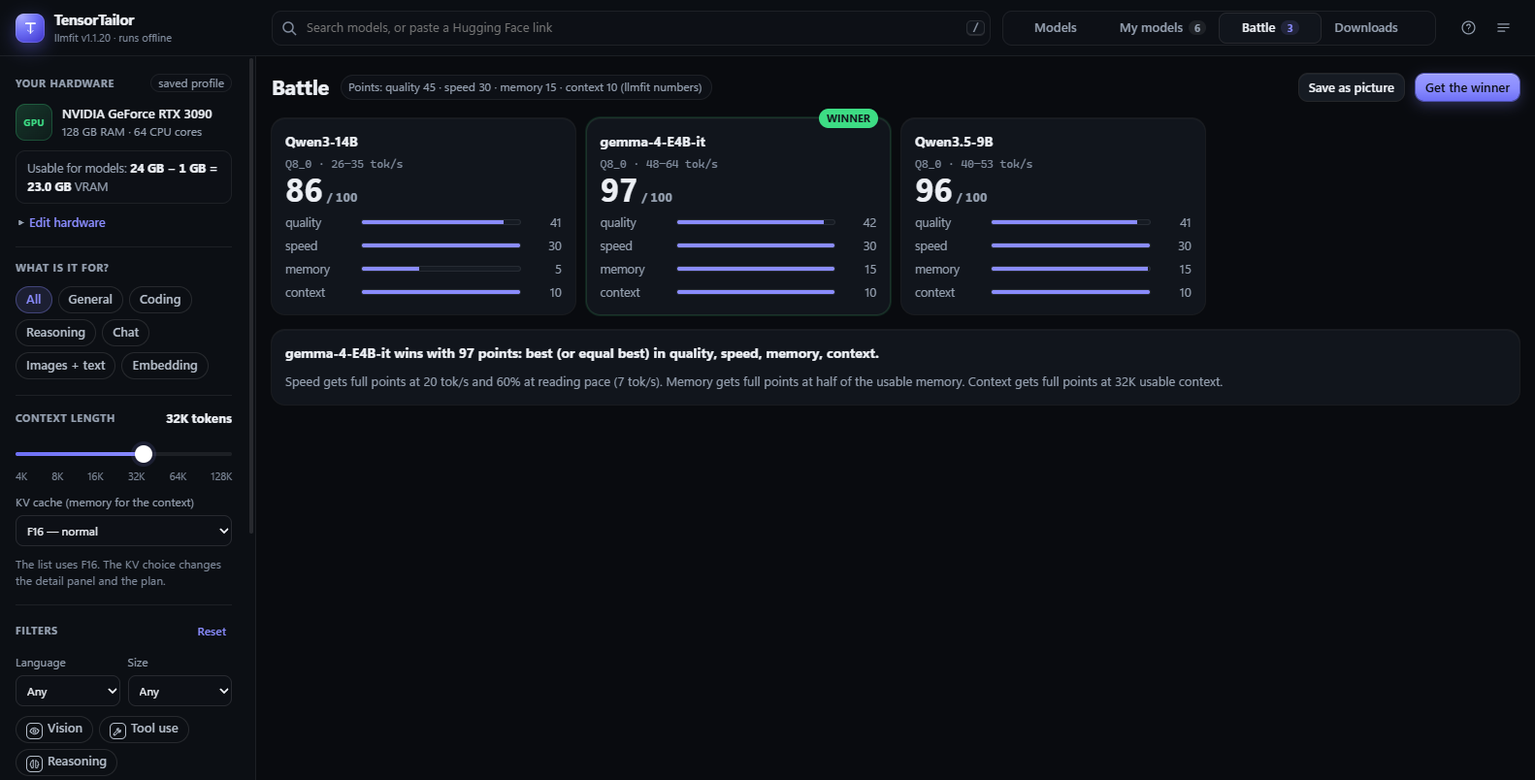
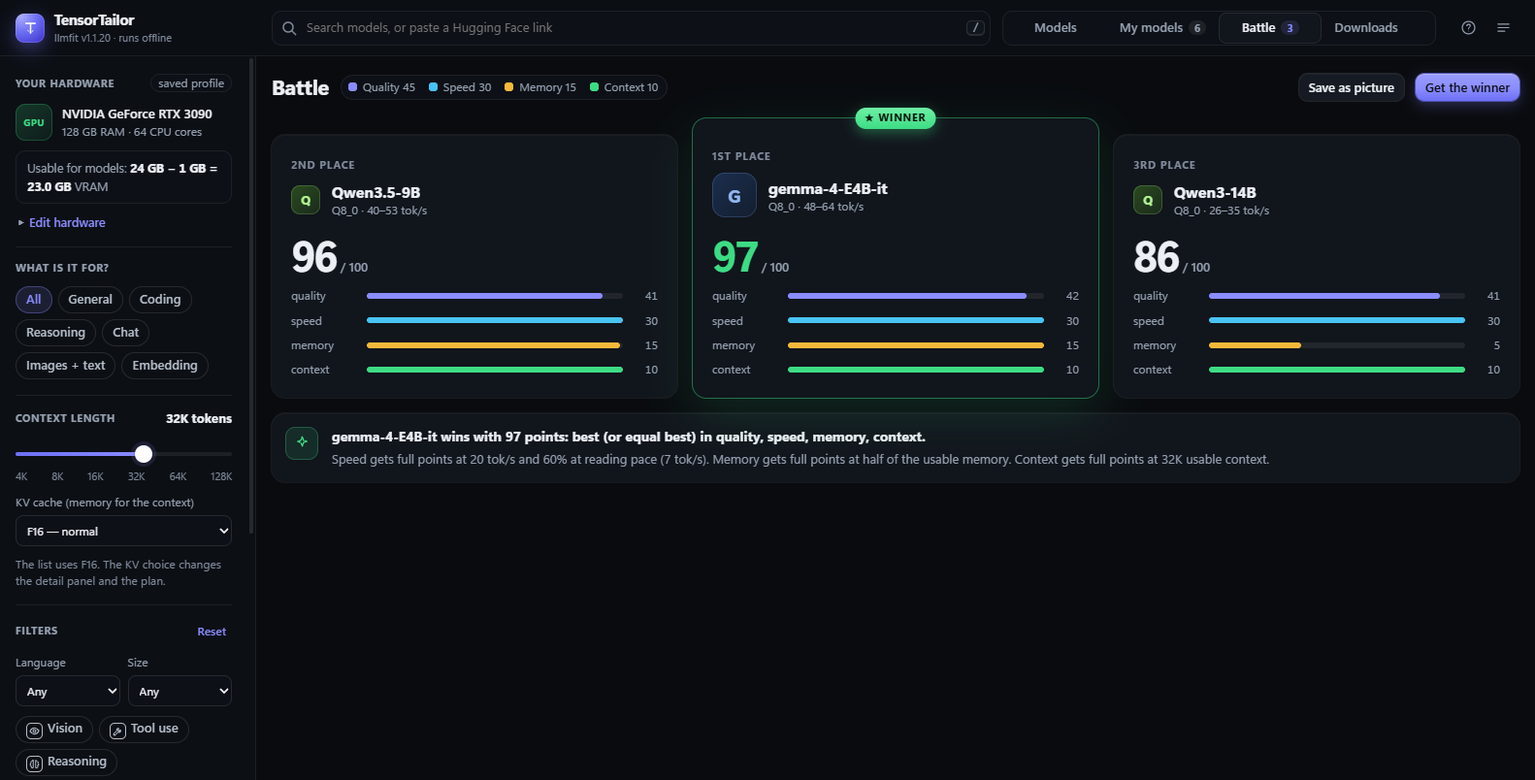
Implemented by Claude Opus 5.5: style: design v4 Battle, Downloads, empty and loading states, Tools menu, Help
Step D6: friendly empty states with actions, a Battle podium with ranks and one colour per category, download rows with status icons and a running shine, skeleton rows while the engine starts, the Tools menu in groups with icons, and the Help with a table of contents and a search box. Help and hover texts now describe the grey memory bar.

diff --git a/web/app.html b/web/app.html
@@ -780,6 +780,76 @@ input[type="range"]:focus-visible::-webkit-slider-thumb { box-shadow: 0 0 0 4px 
 .kpi b.num { text-align: left; }
 /* Cards in the views keep their full height (the view itself scrolls). */
 .view-pane > * { flex: none; }
+
+/* ==== Design v4, step D6: Battle, Downloads, empty and loading states, Tools menu, Help ==== */
+/* Empty states: an icon tile, a title, a sentence and actions. */
+.empty-state { text-align: center; padding: 44px 24px; color: var(--muted); }
+.es-art { width: 76px; height: 76px; margin: 0 auto 16px; border-radius: 22px; display: grid; place-items: center; color: var(--accent); background: radial-gradient(circle at 30% 20%, color-mix(in srgb, var(--accent) 22%, transparent), transparent 70%), var(--panel); box-shadow: var(--elev), 0 18px 44px color-mix(in srgb, var(--accent) 14%, transparent); }
+.es-art svg { width: 30px; height: 30px; fill: none; stroke: currentColor; stroke-width: 1.5; stroke-linecap: round; stroke-linejoin: round; }
+.empty-state h2 { font: 650 20px var(--display); letter-spacing: -.02em; color: var(--text); margin: 0; }
+.empty-state p { margin: 8px auto 18px; max-width: 460px; font-size: 13.5px; }
+.empty-state p b { color: var(--text); }
+.es-acts { display: flex; gap: 8px; justify-content: center; flex-wrap: wrap; }
+.rows > .empty-state { padding-top: 60px; }
+/* Loading: shimmering skeleton rows until the first list is ready. */
+.sk { display: block; border-radius: 6px; background: linear-gradient(90deg, var(--line) 0%, var(--line-2) 50%, var(--line) 100%); background-size: 200% 100%; animation: sk 1.4s ease-in-out infinite; }
+@keyframes sk { from { background-position: 100% 0; } to { background-position: -100% 0; } }
+.sk-row { display: grid; grid-template-columns: 30px minmax(150px, 2.3fr) 70px minmax(112px, 1.2fr) 92px 118px 54px; gap: 12px; align-items: center; height: 60px; padding: 0 16px 0 46px; border-top: 1px solid var(--line); }
+/* Battle: ranks, avatars, one colour per category, the winner raised with a green glow. */
+.fighters { gap: 16px; align-items: end; }
+.fighter { padding: 20px; }
+.fighter.win { box-shadow: 0 0 0 1px color-mix(in srgb, var(--perfect) 45%, transparent), 0 18px 50px color-mix(in srgb, var(--perfect) 14%, transparent); padding-top: 28px; }
+.crown { top: -11px; left: 50%; right: auto; transform: translateX(-50%); height: 22px; padding: 0 10px; display: inline-flex; align-items: center; font-size: 10.5px; font-weight: 800; letter-spacing: .1em; color: #04130a; background: linear-gradient(180deg, #6ef0a6, var(--perfect)); box-shadow: 0 4px 14px color-mix(in srgb, var(--perfect) 40%, transparent); }
+.place { font: 700 10.5px var(--font); letter-spacing: .1em; text-transform: uppercase; color: var(--faint); }
+.fhead { display: flex; align-items: center; gap: 12px; margin-top: 8px; }
+.fname-b { min-width: 0; }
+.fhead h3 { margin: 0; font: 650 16px var(--display); white-space: nowrap; overflow: hidden; text-overflow: ellipsis; }
+.fighter .hash { font-family: var(--font); font-size: 12px; color: var(--muted); }
+.pts { font: 700 44px/1 var(--display); letter-spacing: -.04em; margin: 16px 0 12px; }
+.pts small { font: 600 13px var(--font); color: var(--muted); letter-spacing: 0; }
+.fighter.win .pts { color: var(--perfect); }
+.round { grid-template-columns: 70px 1fr 28px; font-size: 12px; margin-top: 8px; }
+.round .bar { height: 6px; border: 0; background: var(--line); border-radius: 6px; }
+.round .bar > span { border-radius: 6px; }
+.klegend { display: inline-flex; gap: 14px; }
+.klegend span { display: inline-flex; align-items: center; gap: 6px; font-size: 12px; }
+.klegend span::before { content: ""; width: 9px; height: 9px; border-radius: 3px; background: var(--c); }
+.battle-why { display: flex; gap: 14px; align-items: flex-start; }
+.bw-ic { width: 34px; height: 34px; flex: none; border-radius: 10px; display: grid; place-items: center; color: var(--perfect); background: color-mix(in srgb, var(--perfect) 12%, transparent); box-shadow: inset 0 0 0 1px color-mix(in srgb, var(--perfect) 28%, transparent); }
+.bw-ic svg { width: 17px; height: 17px; fill: none; stroke: currentColor; stroke-width: 1.7; stroke-linejoin: round; }
+.battle-why .hint { margin-top: 4px; }
+/* Downloads: a file icon tile per row, a thin progress bar with a shine while it runs. */
+.dl-f { display: flex; align-items: center; gap: 12px; min-width: 0; }
+.dl-ic { --c: var(--accent); width: 38px; height: 38px; flex: none; border-radius: 11px; display: grid; place-items: center; color: var(--c); background: color-mix(in srgb, var(--c) 12%, transparent); box-shadow: inset 0 0 0 1px color-mix(in srgb, var(--c) 26%, transparent); }
+.dl-ic svg { width: 17px; height: 17px; fill: none; stroke: currentColor; stroke-width: 1.8; stroke-linecap: round; stroke-linejoin: round; }
+.dl-ic.s-done { --c: var(--perfect); } .dl-ic.s-failed, .dl-ic.s-mismatch { --c: var(--tight); } .dl-ic.s-queued, .dl-ic.s-paused { --c: var(--faint); }
+.dlbar { height: 6px; border: 0; background: var(--line); border-radius: 6px; }
+.dlbar span { background: linear-gradient(90deg, var(--accent-2), var(--accent)); border-radius: 6px; position: relative; overflow: hidden; }
+.dlbar.run span::after { content: ""; position: absolute; inset: 0; background: linear-gradient(90deg, transparent, rgba(255, 255, 255, .35), transparent); animation: shine 1.6s linear infinite; }
+@keyframes shine { from { transform: translateX(-100%); } to { transform: translateX(100%); } }
+.dlstate { font-size: 12.5px; margin-top: 6px; }
+.layout.full .view-pane .ftable td { padding: 12px 8px; }
+/* Tools menu: groups, icons and key hints. */
+.menu { min-width: 300px; padding: 6px; }
+.menu .btn { height: 38px; font-weight: 500; color: var(--text-2); gap: 10px; }
+.menu .btn:hover { color: var(--text); }
+.menu .btn svg.ic { width: 16px; height: 16px; color: var(--faint); }
+.menu-lbl { padding: 8px 10px 4px; font: 700 10.5px var(--font); letter-spacing: .08em; text-transform: uppercase; color: var(--faint); }
+.menu-sep { height: 1px; background: var(--line); margin: 6px 4px; }
+.mi-r { margin-left: auto; font-size: 11px; color: var(--faint); font-weight: 400; }
+/* Help: a table of contents with a search box at the left. */
+#dlgHelp { width: min(1000px, 94vw); }
+#dlgHelp[open] { display: grid; grid-template-columns: 236px minmax(0, 1fr); grid-template-rows: auto minmax(0, 1fr); height: min(740px, 88vh); }
+#dlgHelp .dlg-head { grid-column: 1 / -1; }
+.help-nav { grid-row: 2; overflow: auto; display: flex; flex-direction: column; gap: 2px; padding: 14px 10px; background: var(--side); border-right: 1px solid var(--line); }
+.help-nav .help-q { flex: none; margin: 0 2px 10px; height: 34px; min-width: 0; }
+.pts.num, .kpi b.num { text-align: left; }
+.help-nav a { display: block; padding: 7px 10px; border-radius: 8px; font-size: 13px; color: var(--text-2); text-decoration: none; }
+.help-nav a:hover { background: var(--hover); }
+.help-nav a.on { background: var(--accent-soft); color: var(--accent); font-weight: 600; }
+#dlgHelp .dlg-body { grid-row: 2; max-height: none; overflow: auto; padding: 20px 28px; }
+.help h3 { font: 650 16px var(--display); letter-spacing: -.01em; margin-top: 24px; }
+.help-none { color: var(--muted); font-size: 13.5px; }
 </style>
 </head>
 <body>
@@ -810,10 +880,13 @@ input[type="range"]:focus-visible::-webkit-slider-thumb { box-shadow: 0 0 0 4px 
     <div class="menu-wrap">
       <button class="btn ghost icon" id="btnTools" aria-haspopup="true" aria-expanded="false" aria-controls="toolsMenu" aria-label="Tools" title="Tools: model catalog, Hugging Face token, About, light or dark"><svg class="ic" viewBox="0 0 24 24" aria-hidden="true"><path d="M4 7h16M4 12h16M4 17h10"/></svg><span class="dot" id="toolsDot"></span></button>
       <div class="menu" id="toolsMenu" role="menu" hidden>
-        <button class="btn ghost" id="btnUpdate" role="menuitem" title="About the model catalog: fetch new models"><span class="dot" id="catDot"></span><span class="upd-lbl" id="catText">Catalog …</span></button>
+        <div class="menu-lbl" role="presentation">Data</div>
+        <button class="btn ghost" id="btnUpdate" role="menuitem" title="About the model catalog: fetch new models"><span class="dot" id="catDot"></span><span class="upd-lbl" id="catText">Catalog …</span><span class="mi-r">fetch new</span></button>
         <button class="btn ghost" id="btnToken" role="menuitem"><span class="dot" id="tokDot"></span><span id="tokText">HF token</span></button>
-        <button class="btn ghost" id="btnAbout" role="menuitem" title="About and licenses">About and licenses</button>
-        <button class="btn ghost" id="btnTheme" role="menuitem" title="Light or dark (T)">◐ Light or dark</button>
+        <div class="menu-sep" role="separator"></div>
+        <div class="menu-lbl" role="presentation">App</div>
+        <button class="btn ghost" id="btnTheme" role="menuitem" title="Light or dark (T)"><svg class="ic" viewBox="0 0 24 24" aria-hidden="true"><circle cx="12" cy="12" r="8"/><path d="M12 4a8 8 0 0 0 0 16z" fill="currentColor"/></svg>Light or dark<span class="mi-r"><kbd>T</kbd></span></button>
+        <button class="btn ghost" id="btnAbout" role="menuitem" title="About and licenses"><svg class="ic" viewBox="0 0 24 24" aria-hidden="true"><circle cx="12" cy="12" r="9"/><path d="M12 11v6M12 7.5h.01"/></svg>About and licenses</button>
       </div>
     </div>
   </div>
@@ -919,8 +992,8 @@ input[type="range"]:focus-visible::-webkit-slider-thumb { box-shadow: 0 0 0 4px 
     <div class="filter-row"><div class="active-filters" id="activeFilters"></div><div class="count" id="countText"></div></div>
     <div class="search-bar" id="searchBar" hidden></div>
     <div class="table">
-      <div class="cols" aria-hidden="true"><span></span><span></span><span title="Model name, its labels, who made it and its size (B = billion parameters)">Model</span><span title="The quantization llmfit picks for this PC">Best file</span><span title="Purple = in VRAM. Orange stripes = in system RAM (slower). Point at a bar for its numbers.">Memory</span><span class="r" title="Tokens per second">Speed</span><span title="How well it runs on this PC">Verdict</span><span title="llmfit's match score, 0–100">Score</span></div>
-      <div class="rows" id="rows" role="listbox" aria-label="Models"></div>
+      <div class="cols" aria-hidden="true"><span></span><span></span><span title="Model name, its labels, who made it and its size (B = billion parameters)">Model</span><span title="The quantization llmfit picks for this PC">Best file</span><span title="Grey = in VRAM (amber end: little room left). Orange stripes = in system RAM (slower). Point at a bar for its numbers.">Memory</span><span class="r" title="Tokens per second">Speed</span><span title="How well it runs on this PC">Verdict</span><span title="llmfit's match score, 0–100">Score</span></div>
+      <div class="rows" id="rows" role="listbox" aria-label="Models"><div class="sk-row" aria-hidden="true"><i class="sk" style="width:30px;height:30px;border-radius:9px"></i><span><i class="sk" style="width:45%;height:12px"></i><i class="sk" style="width:34%;height:9px;margin-top:7px"></i></span><i class="sk" style="height:20px"></i><i class="sk" style="height:6px"></i><i class="sk" style="height:12px"></i><i class="sk" style="height:20px;border-radius:99px"></i><i class="sk" style="height:12px"></i></div><div class="sk-row" aria-hidden="true"><i class="sk" style="width:30px;height:30px;border-radius:9px"></i><span><i class="sk" style="width:62%;height:12px"></i><i class="sk" style="width:34%;height:9px;margin-top:7px"></i></span><i class="sk" style="height:20px"></i><i class="sk" style="height:6px"></i><i class="sk" style="height:12px"></i><i class="sk" style="height:20px;border-radius:99px"></i><i class="sk" style="height:12px"></i></div><div class="sk-row" aria-hidden="true"><i class="sk" style="width:30px;height:30px;border-radius:9px"></i><span><i class="sk" style="width:79%;height:12px"></i><i class="sk" style="width:34%;height:9px;margin-top:7px"></i></span><i class="sk" style="height:20px"></i><i class="sk" style="height:6px"></i><i class="sk" style="height:12px"></i><i class="sk" style="height:20px;border-radius:99px"></i><i class="sk" style="height:12px"></i></div><div class="sk-row" aria-hidden="true"><i class="sk" style="width:30px;height:30px;border-radius:9px"></i><span><i class="sk" style="width:56%;height:12px"></i><i class="sk" style="width:34%;height:9px;margin-top:7px"></i></span><i class="sk" style="height:20px"></i><i class="sk" style="height:6px"></i><i class="sk" style="height:12px"></i><i class="sk" style="height:20px;border-radius:99px"></i><i class="sk" style="height:12px"></i></div><div class="sk-row" aria-hidden="true"><i class="sk" style="width:30px;height:30px;border-radius:9px"></i><span><i class="sk" style="width:73%;height:12px"></i><i class="sk" style="width:34%;height:9px;margin-top:7px"></i></span><i class="sk" style="height:20px"></i><i class="sk" style="height:6px"></i><i class="sk" style="height:12px"></i><i class="sk" style="height:20px;border-radius:99px"></i><i class="sk" style="height:12px"></i></div><div class="sk-row" aria-hidden="true"><i class="sk" style="width:30px;height:30px;border-radius:9px"></i><span><i class="sk" style="width:50%;height:12px"></i><i class="sk" style="width:34%;height:9px;margin-top:7px"></i></span><i class="sk" style="height:20px"></i><i class="sk" style="height:6px"></i><i class="sk" style="height:12px"></i><i class="sk" style="height:20px;border-radius:99px"></i><i class="sk" style="height:12px"></i></div><div class="sk-row" aria-hidden="true"><i class="sk" style="width:30px;height:30px;border-radius:9px"></i><span><i class="sk" style="width:67%;height:12px"></i><i class="sk" style="width:34%;height:9px;margin-top:7px"></i></span><i class="sk" style="height:20px"></i><i class="sk" style="height:6px"></i><i class="sk" style="height:12px"></i><i class="sk" style="height:20px;border-radius:99px"></i><i class="sk" style="height:12px"></i></div><div class="sk-row" aria-hidden="true"><i class="sk" style="width:30px;height:30px;border-radius:9px"></i><span><i class="sk" style="width:84%;height:12px"></i><i class="sk" style="width:34%;height:9px;margin-top:7px"></i></span><i class="sk" style="height:20px"></i><i class="sk" style="height:6px"></i><i class="sk" style="height:12px"></i><i class="sk" style="height:20px;border-radius:99px"></i><i class="sk" style="height:12px"></i></div><div class="sk-row" aria-hidden="true"><i class="sk" style="width:30px;height:30px;border-radius:9px"></i><span><i class="sk" style="width:61%;height:12px"></i><i class="sk" style="width:34%;height:9px;margin-top:7px"></i></span><i class="sk" style="height:20px"></i><i class="sk" style="height:6px"></i><i class="sk" style="height:12px"></i><i class="sk" style="height:20px;border-radius:99px"></i><i class="sk" style="height:12px"></i></div></div>
     </div>
     <div class="tray" id="tray" hidden>
       <span class="lbl">Selected:</span><span id="trayChips" style="display:flex;gap:6px;flex-wrap:wrap"></span><span class="spacer"></span>
@@ -976,12 +1049,13 @@ input[type="range"]:focus-visible::-webkit-slider-thumb { box-shadow: 0 0 0 4px 
 <dialog id="dlgHelp" aria-labelledby="dlgHelp-title">
   <div class="dlg-head"><h2 id="dlgHelp-title">Help: what everything means</h2><button class="btn ghost small" data-close>Close</button></div>
   <div class="dlg-body help">
-    <p>Point at a bar, a speed, a verdict or a score in the list to see a short explanation with that model's own numbers. Press <kbd>?</kbd> to open this window, <kbd>Esc</kbd> to close it.</p>
+    <p>Point at a bar, a speed, a verdict or a score in the list to see a short explanation with that model's own numbers. Press <kbd>?</kbd> to open this window, <kbd>Esc</kbd> to close it. The list at the left jumps to a part; its search box shows only the rows that contain your words.</p>
 
     <h3 id="help-memory">The memory bar</h3>
     <p>The bar shows if a model fits in your graphics card's memory (VRAM). The whole bar is the VRAM you can use for models (your VRAM minus "Kept for Windows").</p>
     <dl>
-      <dt><i class="sw seg-w"></i>Purple</dt><dd>The part that sits in VRAM: model file, KV cache and engine together. Fast.</dd>
+      <dt><i class="sw" style="background:var(--data)"></i>Grey bar</dt><dd>The part that sits in VRAM: model file, KV cache and engine together. Fast. The number at the right of the line below it is how much of your usable VRAM that is.</dd>
+      <dt><i class="sw" style="background:var(--marginal)"></i>Amber end</dt><dd>Less than 12 % of the usable VRAM stays free: it runs, but a longer context or other programs can push it over.</dd>
       <dt><i class="sw seg-ram"></i>Orange stripes</dt><dd>The model does not fit in VRAM. The rest goes to system RAM, which is about 10 times slower, so the model runs slower. The stripes are a warning sign, not to scale: the numbers below the bar give the real sizes, for example "3.2 GB VRAM + 75.0 GB RAM".</dd>
       <dt>Empty part</dt><dd>VRAM that stays free.</dd>
     </dl>
@@ -1023,7 +1097,7 @@ input[type="range"]:focus-visible::-webkit-slider-thumb { box-shadow: 0 0 0 4px 
       <dt>Speed</dt><dd>Tokens per second (a token is about ¾ of a word). A range, because it is an estimate. About 7 tok/s is reading pace.</dd>
       <dt>Verdict</dt><dd>How well it runs here, and where it runs (GPU, CPU+GPU, MoE offload, CPU).</dd>
       <dt>Score</dt><dd>llmfit's match for this PC, 0 to 100, built from quality, speed, fit and context.</dd>
-      <dt>Chosen row</dt><dd>The model you clicked (or opened with <b>Show</b> or <b>View details</b>) has a purple background and border; its details are on the right.</dd>
+      <dt>Chosen row</dt><dd>The model you clicked (or opened with <b>Show</b> or <b>View details</b>) has a purple tint and a glowing purple bar at its left edge; its details are on the right.</dd>
     </dl>
 
     <h3>Labels and icons</h3>
@@ -1477,9 +1551,9 @@ function memTip(b) {
     ? `Needed: ${gb(b.inGpu + b.inRam)} in total (${gb(b.inGpu)} in VRAM: active experts, KV cache and engine; ${gb(b.inRam)} of experts in RAM).`
     : `Needed: ${gb(b.need)} (model file + KV cache for the context + engine).`;
   if (b.vram === 0) return `No GPU: everything runs from system RAM.\n${total}\nThe bar is your usable RAM.`;
-  if (b.mode === "GPU") return `Fits in the GPU's memory (VRAM).\n${total}\nPurple = used VRAM: ${gb(b.need)} of your ${gb(b.vram)} usable VRAM.\nThe empty part of the bar is VRAM that stays free.`;
+  if (b.mode === "GPU") return `Fits in the GPU's memory (VRAM).\n${total}\nThe grey bar = used VRAM: ${gb(b.need)} of your ${gb(b.vram)} usable VRAM; its end turns amber when less than 12 % stays free.\nThe empty part of the bar is VRAM that stays free.`;
   const why = b.mode === "MoE offload" ? "MoE offload: the experts that are not in use wait in system RAM." : "Too big for VRAM: the rest goes to system RAM.";
-  return `${why}\n${total}\nPurple = in VRAM: ${gb(b.inGpu)}.\nOrange stripes = in system RAM: ${gb(b.inRam)}. System RAM is much slower than VRAM, so the model runs slower.\nThe stripes are a warning sign, not to scale.`;
+  return `${why}\n${total}\nThe grey bar = in VRAM: ${gb(b.inGpu)}.\nOrange stripes = in system RAM: ${gb(b.inRam)}. System RAM is much slower than VRAM, so the model runs slower.\nThe stripes are a warning sign, not to scale.`;
 }
 function speedTip(b) {
   if (!b.tps) return "No speed: the model does not fit.";
@@ -1658,6 +1732,8 @@ function renderSearchBar() {
   state.searchAll = save;
   const hidden = total - withFilters;
   const hub = state.hubSearch && state.hubSearch.q.toLowerCase() === s ? state.hubSearch : null;
+  // Nothing at all matches: the empty state in the list has the same buttons (only a running search stays here).
+  if (!total && !hub) { el.hidden = true; return; }
   el.hidden = false;
   el.innerHTML = `<span><b>${(state.searchAll ? total : withFilters).toLocaleString("en")}</b> models in the list match "${esc(raw)}"${state.searchAll ? " (filters off)" : hidden ? `, <b>${hidden.toLocaleString("en")}</b> more are hidden by your filters` : ""}.</span>
     ${state.searchAll ? `<button class="btn small" data-searchfilters="1">Filters on again</button>` : hidden ? `<button class="btn small" data-searchall="1">Show all ${total.toLocaleString("en")}</button>` : ""}
@@ -1679,7 +1755,10 @@ function renderList() {
   const lookupId = hfRepoId(state.search.trim());
   // A pasted link shows its live check; a typed "org/name" only when nothing matches.
   if (!state.visible.length || (lookupId && state.lookup && state.lookup.id === lookupId)) {
-    el.innerHTML = lookupId ? lookupHTML(lookupId) : `<div class="empty">No models match. Turn on more tiles above, reset the filters, or clear the search.</div>`;
+    const raw = state.search.trim();
+    el.innerHTML = lookupId ? lookupHTML(lookupId) : emptyState(ES_ICON.search, "No models match",
+      searchText() ? `Nothing in the list matches <b>"${esc(raw)}"</b> with your filters. Hugging Face may have it: TensorTailor reads it live and tells you if it fits.` : "Turn on more tiles above, or loosen the filters.",
+      (searchText() ? `<button class="btn primary" data-hubsearch="${esc(raw)}" ${state.liveBusy ? "disabled" : ""}>Search Hugging Face</button>` : "") + `<button class="btn" data-unfilter="all">Clear the filters</button><button class="btn ghost" data-unfilter="defaults">Defaults</button>`);
   } else {
     if (el.scrollTop > state.visible.length * ROW_H) el.scrollTop = 0;
     renderRowsWindow();
@@ -3396,18 +3475,37 @@ function battlePoints(r) {
   const p = { quality: 45 * b.parts.quality / 100, speed: 30 * sp, memory: 15 * mem, context: 10 * clamp(r.ctxFit / 32768, 0, 1) };
   p.total = p.quality + p.speed + p.memory + p.context; return p;
 }
+// One colour per category (the same in the legend).
+const ROUND_COL = { quality: "var(--accent)", speed: "var(--good)", memory: "var(--marginal)", context: "var(--perfect)" };
+const ORDINAL = ["1st", "2nd", "3rd", "4th"];
+// A friendly empty state: an icon tile, a title, a sentence and actions.
+function emptyState(icon, title, text, actions) {
+  return `<div class="empty-state"><span class="es-art" aria-hidden="true">${icon}</span><h2>${title}</h2><p>${text}</p>${actions ? `<div class="es-acts">${actions}</div>` : ""}</div>`;
+}
+const ES_ICON = {
+  battle: '<svg viewBox="0 0 24 24"><path d="M14.5 17.5 3 6V3h3l11.5 11.5M13 19l6-6M16 16l4 4M19 21l2-2M9.5 17.5 21 6V3h-3L6.5 14.5M11 19l-6-6M8 16l-4 4M5 21l-2-2"/></svg>',
+  search: '<svg viewBox="0 0 24 24"><circle cx="11" cy="11" r="7"/><path d="m20 20-3.5-3.5"/></svg>',
+  down: '<svg viewBox="0 0 24 24"><path d="M12 4v11m-5-5 5 5 5-5M5 20h14"/></svg>'
+};
 function viewBattle() {
   const rs = state.compare.map((id) => state.results.find((r) => r.m.id === id)).filter(Boolean);
-  if (rs.length < 2) return `<div class="view-head"><h1>Battle</h1></div><section class="card empty">Pick 2 to 4 models with the checkbox in the list (or "Add to battle" in Top picks). They fight on this PC and one winner is named.</section>`;
+  if (rs.length < 2) return `<div class="view-head"><h1>Battle</h1></div><section class="card">${emptyState(ES_ICON.battle, "Pick 2 to 4 models", 'Tick the box next to models in the list (or "Add to battle" in Top picks). They fight on this PC and one winner is named.', `<button class="btn primary" data-view-models="1">Go to the list</button>`)}</section>`;
   const fighters = rs.map((r) => ({ r, p: battlePoints(r) })), alive = fighters.filter((f) => f.p);
-  const win = alive.slice().sort((a, b) => b.p.total - a.p.total)[0];
+  const ranked = alive.slice().sort((a, b) => b.p.total - a.p.total), win = ranked[0];
   const rounds = [["quality", 45], ["speed", 30], ["memory", 15], ["context", 10]];
   const led = win ? rounds.map(([k]) => k).filter((k) => alive.every((f) => win.p[k] >= f.p[k] - 0.5)) : [];
-  const card = (f) => `<section class="card fighter ${win && f === win ? "win" : ""} ${f.p ? "" : "out"}">${win && f === win ? '<span class="crown">WINNER</span>' : ""}<h3 title="${esc(f.r.m.id)}">${esc(f.r.m.name)}</h3><div class="hash">${esc(f.r.best.q)} · ${speedRange(f.r.best)} tok/s</div>
-    ${f.p ? `<div class="pts">${f.p.total.toFixed(0)}<small style="font-size:13px"> / 100</small></div>${rounds.map(([k, max]) => `<div class="round"><span>${k}</span><div class="bar"><span style="width:${(f.p[k] / max * 100).toFixed(0)}%"></span></div><span class="r">${f.p[k].toFixed(0)}</span></div>`).join("")}` : `<div class="warn-box">Knocked out: it does not fit on this PC.</div>`}</section>`;
+  const card = (f) => {
+    const rank = f.p ? ranked.indexOf(f) : -1, isWin = win && f === win;
+    return `<section class="card fighter ${isWin ? "win" : ""} ${f.p ? "" : "out"}">${isWin ? '<span class="crown">★ WINNER</span>' : ""}<span class="place">${rank >= 0 ? ORDINAL[rank] + " place" : "Knocked out"}</span>
+    <div class="fhead">${avatar(f.r.m, isWin)}<div class="fname-b"><h3 title="${esc(f.r.m.id)}">${esc(f.r.m.name)}</h3><div class="hash">${esc(f.r.best.q)} · ${speedRange(f.r.best)} tok/s</div></div></div>
+    ${f.p ? `<div class="pts num">${f.p.total.toFixed(0)}<small> / 100</small></div>${rounds.map(([k, max]) => `<div class="round"><span>${k}</span><div class="bar"><span style="width:${(f.p[k] / max * 100).toFixed(0)}%;background:${ROUND_COL[k]}"></span></div><span class="r num">${f.p[k].toFixed(0)}</span></div>`).join("")}` : `<div class="warn-box">Knocked out: it does not fit on this PC.</div>`}</section>`;
+  };
   const why = !win ? "No model fits on this PC." : `${esc(win.r.m.name)} wins with ${win.p.total.toFixed(0)} points` + (led.length ? `: best (or equal best) in ${led.join(", ")}.` : ".");
-  return `<div class="view-head"><h1>Battle</h1><span class="status-line">Points: quality 45 · speed 30 · memory 15 · context 10 (llmfit numbers)</span><span class="spacer"></span>${win ? `<button class="btn small" id="btnBattlePng">Save as picture</button><button class="btn small primary" data-show="${esc(win.r.m.id)}" data-gotab="files">Get the winner</button>` : ""}</div>
-    <div class="fighters">${fighters.map(card).join("")}</div><section class="card"><b>${why}</b><p class="hint">Speed gets full points at 20 tok/s and 60% at reading pace (7 tok/s). Memory gets full points at half of the usable memory. Context gets full points at 32K usable context.</p></section>`;
+  // A podium: the winner in the middle (2nd left, 3rd right); with 2 or 4 fighters, by rank.
+  const order = alive.length === 3 && fighters.length === 3 ? [ranked[1], ranked[0], ranked[2]] : ranked.concat(fighters.filter((f) => !f.p));
+  const legend = rounds.map(([k, max]) => `<span style="--c:${ROUND_COL[k]}">${k[0].toUpperCase() + k.slice(1)} ${max}</span>`).join("");
+  return `<div class="view-head"><h1>Battle</h1><span class="status-line klegend" title="Points: quality 45 · speed 30 · memory 15 · context 10 (llmfit numbers)">${legend}</span><span class="spacer"></span>${win ? `<button class="btn small" id="btnBattlePng">Save as picture</button><button class="btn small primary" data-show="${esc(win.r.m.id)}" data-gotab="files">Get the winner</button>` : ""}</div>
+    <div class="fighters" style="grid-template-columns:repeat(${fighters.length}, minmax(0, 1fr))">${order.map(card).join("")}</div><section class="card battle-why"><span class="bw-ic" aria-hidden="true"><svg viewBox="0 0 24 24"><path d="M12 3l1.8 5.2L19 10l-5.2 1.8L12 17l-1.8-5.2L5 10l5.2-1.8z"/></svg></span><div><b>${why}</b><p class="hint">Speed gets full points at 20 tok/s and 60% at reading pace (7 tok/s). Memory gets full points at half of the usable memory. Context gets full points at 32K usable context.</p></div></section>`;
 }
 function battlePng() {
   const rs = state.compare.map((id) => state.results.find((r) => r.m.id === id)).filter(Boolean).map((r) => ({ r, p: battlePoints(r) }));
@@ -3716,8 +3814,9 @@ function dlRow(j) {
   if (["done", "mismatch"].includes(j.status) && !busy) acts.push(btn("check", "Check again"));
   acts.push(btn("remove", j.status === "done" ? "Remove from list" : "Remove", "ghost"));
   const ok = j.status === "done" && j.gotSha;
-  return `<tr><td><div class="fname">${esc(j.path.split("/").pop())}</div><div class="hash">${esc(j.repo)}${j.path.includes("/") ? " · " + esc(j.path) : ""}</div></td><td class="r">${fmtSize(j.bytes / 1e9)}</td>
-    <td style="min-width:260px"><div class="bar dlbar${j.status === "done" && j.gotSha ? " done" : ""}"><span style="width:${pct(p)}%"></span></div><div class="dlstate ${j.status}">${esc(text)}</div>
+  const icon = ["done"].includes(j.status) ? '<path d="m5 12 5 5 9-10"/>' : ["failed", "mismatch"].includes(j.status) ? '<path d="M12 8v5M12 16.5h.01"/><circle cx="12" cy="12" r="9"/>' : '<path d="M12 4v11m-5-5 5 5 5-5M5 20h14"/>';
+  return `<tr><td><div class="dl-f"><span class="dl-ic s-${esc(j.status)}" aria-hidden="true"><svg viewBox="0 0 24 24">${icon}</svg></span><div style="min-width:0"><div class="fname">${esc(j.path.split("/").pop())}</div><div class="hash">${esc(j.repo)}${j.path.includes("/") ? " · " + esc(j.path) : ""}</div></div></div></td><td class="r">${fmtSize(j.bytes / 1e9)}</td>
+    <td style="min-width:260px"><div class="bar dlbar${j.status === "done" && j.gotSha ? " done" : ""}${j.status === "downloading" ? " run" : ""}"><span style="width:${pct(p)}%"></span></div><div class="dlstate ${j.status}">${esc(text)}</div>
     ${ok ? `<div class="hash" style="color:var(--perfect)">SHA-256 read back from disk matches Hugging Face: <span data-copy="${esc(j.gotSha)}" data-what="SHA-256" title="${esc(j.gotSha)}&#10;Click to copy" style="cursor:copy">${esc(j.gotSha.slice(0, 16))}…</span></div>` : ""}
     ${j.rename ? `<div class="warn-box" style="margin-top:6px">The file is still called <b>${esc(j.path.split("/").pop())}.tt-tmp</b>, so LM Studio does not see it yet. Windows did not allow the rename (${esc(j.rename)}). Press <b>Rename now</b>, or in Explorer remove <b>.tt-tmp</b> from the end of the name.</div>` : ""}
     ${j.error ? `<div class="hash" style="color:var(--tight)">${esc(j.error)}</div>` : ""}${j.note ? `<div class="hash">${esc(j.note)}</div>` : ""}${j.why ? `<div class="hash">${esc(j.why)}</div>` : ""}</td>
@@ -3728,7 +3827,7 @@ function viewDownloads() {
   const d = state.dl, jobs = d.jobs.slice().reverse();
   const folder = d.root ? `Folder: <b>${esc(d.root.name || "(browser test storage)")}</b>` : "No folder chosen yet";
   return `<div class="view-head"><h1>Downloads</h1><span class="status-line"><span class="dot ${d.root ? "ok" : "warn"}"></span>${folder}</span><span class="spacer"></span><button class="btn small" id="btnDlFolder">${d.root ? "Change folder" : "Choose folder"}</button></div>
-    <section class="card">${jobs.length ? `<table class="ftable"><thead><tr><th>File</th><th class="r">Size</th><th>State</th><th></th></tr></thead><tbody>${jobs.map(dlRow).join("")}</tbody></table>` : `<p class="hint" style="margin-top:0">No downloads yet. Open a model, go to <b>Files</b>, and press <b>Download</b> next to a file.</p>`}</section>
+    <section class="card">${jobs.length ? `<table class="ftable"><thead><tr><th>File</th><th class="r">Size</th><th>State</th><th></th></tr></thead><tbody>${jobs.map(dlRow).join("")}</tbody></table>` : emptyState(ES_ICON.down, "No downloads yet", "Open a model, go to <b>Files</b>, and press <b>Download</b> next to a file. It goes straight into LM Studio's models folder and is checked with SHA-256 at the end.", `<button class="btn primary" data-view-models="1">Go to the list</button>`)}</section>
     <section class="card"><details class="help-fold"><summary>How downloads work (folder, parts, check, vision, remove)</summary><p class="hint" style="margin-top:0"><b>Where:</b> pick LM Studio's models folder (by default <code>${esc(LMS_FOLDER_HINT)}</code>; LM Studio shows yours under <b>My Models</b>). Each file goes to <code>&lt;folder&gt;\\&lt;publisher&gt;\\&lt;repo&gt;\\</code>, so LM Studio sees it at once.<br>
     <b>Safe:</b> the file comes in parts of ${Math.round(d.partBytes / 1048576)} MB. After a crash or restart, press <b>Resume</b>: finished parts are kept. Then the parts are joined into the model file; it stays empty until the join is complete. Joining needs about twice the file size free for a short time.<br>
     <b>Checked:</b> at the end TensorTailor reads the whole file back from disk and compares its SHA-256 with Hugging Face's. Windows may serve the read from its memory cache; <b>Check again</b> after a restart reads it fresh from the disk.<br>
@@ -3819,12 +3918,58 @@ function exportCsv() {
   saveFile("tensortailor-models.csv", new Blob([head.join(",") + "\r\n" + lines.join("\r\n")], { type: "text/csv" }));
   toast(`Saved ${lines.length.toLocaleString("en")} models to tensortailor-models.csv in your Downloads folder.`);
 }
+// Help: a table of contents built from its headings, and a search box that hides the rows that do not match.
+function buildHelpNav(d) {
+  if (d.querySelector(".help-nav")) return;
+  const body = d.querySelector(".dlg-body"), heads = [...body.querySelectorAll("h3")];
+  heads.forEach((h, i) => { if (!h.id) h.id = "help-s" + i; });
+  const nav = document.createElement("nav");
+  nav.className = "help-nav"; nav.setAttribute("aria-label", "Help sections");
+  nav.innerHTML = `<label class="search help-q"><svg width="15" height="15" viewBox="0 0 16 16" aria-hidden="true"><circle cx="7" cy="7" r="5" stroke="currentColor" stroke-width="1.6" fill="none"/><path d="M11 11l3.5 3.5" stroke="currentColor" stroke-width="1.6" stroke-linecap="round"/></svg><input type="search" id="helpQ" placeholder="Search the Help" aria-label="Search the Help" autocomplete="off"></label>`
+    + heads.map((h) => `<a href="#${h.id}" data-helpsec="${h.id}">${esc(h.textContent)}</a>`).join("");
+  d.insertBefore(nav, body);
+  nav.addEventListener("click", (e) => {
+    const a = e.target.closest("[data-helpsec]"); if (!a) return;
+    e.preventDefault(); const t = document.getElementById(a.dataset.helpsec); body.scrollTop = t.offsetTop - body.offsetTop - 8;
+  });
+  nav.querySelector("#helpQ").addEventListener("input", (e) => { filterHelp(body, heads, e.target.value); markHelpNav(nav, body, heads); });
+  body.addEventListener("scroll", () => markHelpNav(nav, body, heads));
+}
+function filterHelp(body, heads, q) {
+  q = q.trim().toLowerCase();
+  for (const dl of body.querySelectorAll("dl")) {
+    let any = false;
+    for (const dt of dl.querySelectorAll(":scope > dt")) {
+      const dd = dt.nextElementSibling, hit = !q || (dt.textContent + " " + (dd ? dd.textContent : "")).toLowerCase().includes(q);
+      dt.hidden = !hit; if (dd && dd.tagName === "DD") dd.hidden = !hit; if (hit) any = true;
+    }
+    dl.hidden = !any;
+  }
+  for (const p of body.querySelectorAll(":scope > p")) p.hidden = !!q && !p.textContent.toLowerCase().includes(q);
+  for (const h of heads) {
+    let el = h.nextElementSibling, any = false;
+    while (el && el.tagName !== "H3") { if (!el.hidden) any = true; el = el.nextElementSibling; }
+    h.hidden = !!q && !any && !h.textContent.toLowerCase().includes(q);
+  }
+  const none = q && heads.every((h) => h.hidden);
+  let msg = body.querySelector(".help-none");
+  if (none && !msg) { msg = document.createElement("p"); msg.className = "help-none"; body.prepend(msg); }
+  if (msg) { msg.hidden = !none; msg.textContent = none ? `Nothing in the Help matches "${q}".` : ""; }
+}
+function markHelpNav(nav, body, heads) {
+  const y = body.scrollTop + body.offsetTop + 24;
+  let cur = null;
+  for (const h of heads) if (!h.hidden && h.offsetTop <= y) cur = h.id;
+  nav.querySelectorAll("[data-helpsec]").forEach((a) => a.classList.toggle("on", a.dataset.helpsec === (cur || (heads[0] && heads[0].id))));
+}
 function openHelp(section) {
   const d = $("dlgHelp");
+  buildHelpNav(d);
   if (!d.open) d.showModal();
   const body = d.querySelector(".dlg-body");
   const target = section ? document.getElementById(section) : null;
   body.scrollTop = target ? target.offsetTop - body.offsetTop - 8 : 0;
+  body.dispatchEvent(new Event("scroll"));
 }
 function renderAbout() {
   const b = state.build, i = state.info;
@@ -4014,6 +4159,7 @@ function wire() {
     const t = e.target;
     if (t.id === "btnCloseSuggest") { setPicks(false); return; }
     if (t.closest("#btnOpenPicks")) { setPicks(true); return; }
+    if (t.closest("[data-view-models]")) { setView("models"); return; }
     const show = t.closest("[data-show]"); if (show) { const d = show.closest("dialog"); if (d) d.close(); showModel(show.dataset.show, show.dataset.gotab); return; }
     const hc = t.closest("[data-hfcheck]"); if (hc) { checkHfLink(hc.dataset.hfcheck); return; }
     const hs = t.closest("[data-hubsearch]"); if (hs) { searchHub(hs.dataset.hubsearch); return; }
